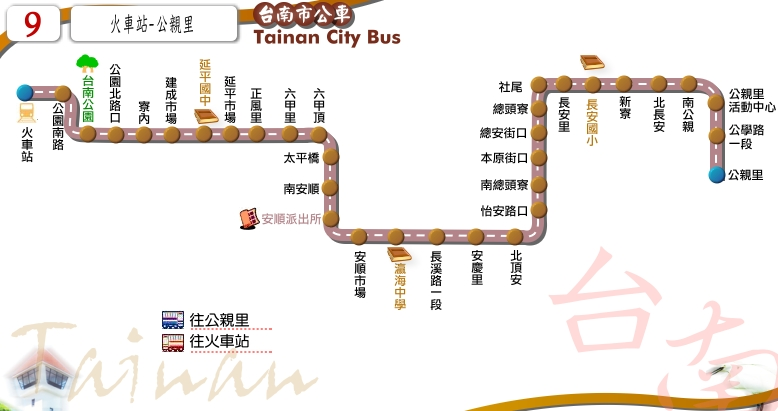
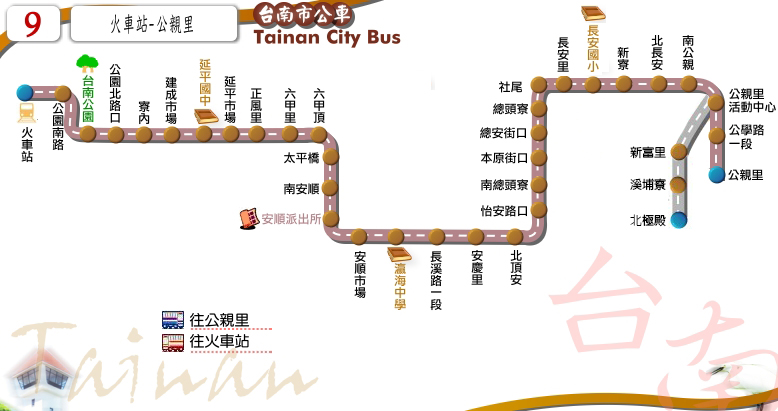
finished 9,g27,y12-1,y14,y15

diff --git a/city_bus/city_bus_9.html b/city_bus/city_bus_9.html
@@ -57,7 +57,7 @@
 			<table border="0">
 				<tr>
 					<td>起訖點</td>
-					<td>火車站 － 公親里</td>
+					<td>火車站 － 公親里/溪埔寮</td>
 				</tr>
 				<tr>
 					<td>營運公司</td>
@@ -65,7 +65,13 @@
 				</tr>
 				<tr>
 					<td>首／末班車發車時刻</td>
-					<td>往 公親里：07:00／18:00<br />往 火車站：06:20／18:50</td>
+					<td>
+					<script language="javascript">
+						document.write('往 公親里：'+city_bus_9_time_go[0][0]+'／'+city_bus_9_time_go[city_bus_9_time_go.length-1][0]);
+						document.write('<br />');
+						document.write('往 火車站：'+city_bus_9_time_return[0][0]+'／'+city_bus_9_time_return[city_bus_9_time_return.length-1][0]);
+					</script>
+					</td>
 				</tr>
 				<tr>
 					<td>班距</td>
@@ -122,10 +128,10 @@
 	</div>
 	<div class="content">
 		<script language="javascript">
-			document.write('<h2>火車站-&gt;公親里</h2>');
+			document.write('<h2>火車站-&gt;公親里/溪埔寮</h2>');
 			create_time_schedule(city_bus_9_main_stop_name, city_bus_9_main_stop_time_consume, city_bus_9_important_stop, city_bus_9_time_go, false);
 			document.write('<p>　</p>');
-			document.write('<h2>公親里-&gt;火車站</h2>');
+			document.write('<h2>公親里/溪埔寮-&gt;火車站</h2>');
 			create_time_schedule(city_bus_9_main_stop_name, city_bus_9_main_stop_time_consume, city_bus_9_important_stop, city_bus_9_time_return, true);
 			document.write('<p>　</p>');
 			document.write(TimeScheduleMSG);
@@ -148,27 +154,27 @@
 				</tr>
 				<tr>
 					<td style="text-align: center"><img src="../route/transfer/taiwantrip_logo.png"></td>
-					<td>88、99</td>
+					<td id="tour_bus"><a href="../tour_bus/tour_bus_88.html" target="_blank">88</a>、<a href="../tour_bus/tour_bus_99.html" target="_blank">99</a></td>
 				</tr>
 				<tr>
 					<td style="text-align: center"><img src="../route/transfer/city_bus_transfer_logo.png"></td>
-					<td>市區公車(除15、20路)</td>
+					<td id="city_bus"><p><a href="../city_bus/city_bus_0.html" target="_blank">0左/右</a>、<a href="../city_bus/city_bus_1.html" target="_blank">1</a>、<a href="../city_bus/city_bus_2.html" target="_blank">2</a>、<a href="../city_bus/city_bus_3.html" target="_blank">3</a>、<a href="../city_bus/city_bus_5.html" target="_blank">5</a>、<a href="../city_bus/city_bus_6.html" target="_blank">6</a>、<a href="../city_bus/city_bus_7.html" target="_blank">7</a>、<a href="../city_bus/city_bus_9.html" target="_blank">9</a>、</p><a href="../city_bus/city_bus_10.html" target="_blank">10</a>、<a href="../city_bus/city_bus_11.html" target="_blank">11</a>、<a href="../city_bus/city_bus_14.html" target="_blank">14</a>、<a href="../city_bus/city_bus_18.html" target="_blank">18</a>、<a href="../city_bus/city_bus_21.html" target="_blank">21</a></td>
 				</tr>
 				<tr>
 					<td style="text-align: center"><img src="../route/transfer/green_transfer_logo.png"></td>
-					<td>綠幹線</td>
+					<td id="green"><a href="../green/green.html" target="_blank">綠幹線</a></td>
 				</tr>
 				<tr>
 					<td style="text-align: center"><img src="../route/transfer/blue_transfer_logo.png"></td>
-					<td>藍幹線</td>
+					<td id="blue"><a href="../blue/blue.html" target="_blank">藍幹線</a></td>
 				</tr>
 				<tr>
 					<td style="text-align: center"><img src="../route/transfer/red_transfer_logo.png"></td>
-					<td>紅幹線、紅1、紅2、紅3、紅4</td>
+					<td id="red"><a href="../red/red.html" target="_blank">紅幹線</a>、<a href="../red/red_1.html" target="_blank">紅1</a>、<a href="../red/red_2.html" target="_blank">紅2</a>、<a href="../red/red_3.html" target="_blank">紅3</a>、<a href="../red/red_4.html" target="_blank">紅4</a></td>
 				</tr>
 				<tr>
 					<td style="text-align: center"><img src="../route/transfer/orange_transfer_logo.png"></td>
-					<td>橘3、橘12</td>
+					<td id="orange"><a href="../orange/orange_3.html" target="_blank">橘3</a>、<a href="../orange/orange_11.html" target="_blank">橘11</a>、<a href="../orange/orange_12.html" target="_blank">橘12</a></td>
 				</tr>
 			</table>
 		</div>

diff --git a/route/fare_and_time/green_27.js b/route/fare_and_time/green_27.js
@@ -1,30 +1,34 @@
-green_27_interval_name = ["玉井","三埔","北寮","玉山","北寮","北平里","南化","茄苳橋"];
+green_27_interval_name = ["玉井","三埔","北寮","玉山","下歸林","玉山","北寮","北平里","南化","茄苳橋"];
 green_27_interval_stop = [
 ["玉井站","玉田里","玉井國中","農會超商前"], // 玉井
 ["砂子田","山後","坑口","二埔","三埔","四埔"], // 三埔
 ["北寮街尾","北寮","頭份子"], // 北寮
-["下頭子","南平","玉山","茅埔","玉山","南平","下頭子"], // 玉山
+["下頭子","南平","玉山","茅埔","十二鄰莊"], // 玉山
+["羌黃坑"], // 下歸林
+["十二鄰莊","茅埔","玉山","南平","下頭子"], // 玉山
 ["頭份子","北寮","南寮"], // 北寮
 ["北平里","七苓","鏡面水庫","湘子埔"], // 北平里
 ["小崙尾","南化國中","南化公所"], // 南化
 ["界址","西廍","東埔派出所","大坪","北頭","金馬寮","茄苳橋"] // 茄苳橋
 ];
-green_27_stop_time_consume = [0,2,3,4,5,6,7,8,9,10,11,12,13,15,17,18,20,22,23,25,27,28,29,30,31,32,33,35,37,38,40,42,43,44,45,46,47];
+green_27_stop_time_consume = [0,2,3,4,5,6,7,8,9,10,11,12,13,15,17,18,20,21,25,29,30,32,33,35,37,38,39,40,41,42,43,45,47,48,50,52,53,54,55,56,57];
 green_27_fare = [
 [26],
 [26,26],
 [26,26,26],
 [36,26,26,26],
-[26,26,26,26,26],
-[31,26,26,26,26,26],
-[42,26,26,32,26,26,26],
-[57,40,34,47,34,26,26,26]
+[54,37,31,26,26],
+[36,26,26,26,26,26],
+[26,26,26,26,31,26,26],
+[31,26,26,26,39,26,26,26],
+[42,26,26,32,50,32,26,26,26],
+[57,40,34,47,65,47,34,26,26,26]
 ];
 // format = [time at the start stop] or
 // [time, other] or
 // [time, start_stop, end_stop, other]
-green_27_main_stop_name = ["玉井","北寮<br />街尾","茅埔","南寮","鏡面<br />水庫","南化<br />公所","茄苳橋"];
-green_27_main_stop_time_consume = [0, 11, 20, 13, 16, 20, 30];
-green_27_important_stop = [0, 2, 5, 6]; // 玉井, 茅埔, 南化公所, 甲仙
-green_27_time_go = [["6:15",['W羌',[3,20]]],["6:15",['H羌',2]],["10:10",[2]],["13:00",[2]],["15:40",[2]],["16:30",0,5,[2]],["16:40",[2]],["18:10",[2]]];
-green_27_time_return = [["7:10",[2]],["10:40",[2]],["13:30",[2]],["16:10",[2]],["16:50",5,0,['羌',[2,20]]],["17:10",[2]],["18:40",[2]]];
+green_27_main_stop_name = ["玉井","北寮<br />街尾","羌黃坑","南寮","鏡面<br />水庫","南化<br />公所","茄苳橋"];
+green_27_main_stop_time_consume = [0, 11, 25, 13, 16, 20, 30];
+green_27_important_stop = [0, 2, 5, 6]; // 玉井, 羌黃坑, 南化公所, 甲仙
+green_27_time_go = [["6:15",['W',[3,25]]],["6:15",['H',2]],["10:10",[2]],["13:00",[2]],["15:40",[2]],["16:30",0,5,[2]],["16:40",[2]],["18:10",[2]]];
+green_27_time_return = [["7:10",[2]],["10:40",[2]],["13:30",[2]],["16:10",[2]],["16:50",5,0,[[2,25]]],["17:10",[2]],["18:40",[2]]];

diff --git a/route/fare_and_time/city_bus_9.js b/route/fare_and_time/city_bus_9.js
@@ -1,8 +1,8 @@
 // format = [time at the start stop] or
 // [time, other] or
 // [time, start_stop, end_stop, other]
-city_bus_9_main_stop_name = ["臺南<br />火車站","臺南公園<br />(公園路)","延平<br />市場","太平橋","瀛海<br />中學","怡安<br />路口","總頭寮","新寮","公親里<br />活動中心","公親里"];
-city_bus_9_main_stop_time_consume = [0, 4, 8, 14, 17, 20, 23, 26, 28, 30];
+city_bus_9_main_stop_name = ["臺南<br />火車站","臺南公園<br />(公園路)","延平<br />市場","太平橋","瀛海<br />中學","怡安<br />路口","總頭寮","新寮","公親里<br />活動中心","公親里","北極殿"];
+city_bus_9_main_stop_time_consume = [0, 4, 8, 14, 17, 20, 23, 26, 28, 30, 35];
 city_bus_9_important_stop = [0, 4, 9]; // 臺南火車站, 瀛海中學, 公親里
-city_bus_9_time_go = [["07:00"],["08:40"],["11:30"],["14:30"],["16:30"],["18:00"]];
-city_bus_9_time_return = [["06:20"],["08:00"],["09:30"],["12:00"],["15:00"],["17:10"],["18:50"]];
+city_bus_9_time_go = [["07:00",0,9],["07:50",[9]],["08:40",0,9],["10:00",[9]],["11:30",0,9],["12:15",[9]],["14:30",0,9],["16:30",0,9],["17:20",[9]],["18:00",0,9]];
+city_bus_9_time_return = [["06:20",9,0],["06:30",[9]],["08:00",9,0],["08:40",[9]],["09:30",9,0],["10:50",[9]],["12:00",9,0],["15:00",9,0],["16:00",[9]],["17:10",9,0],["18:50",9,0]];

diff --git a/route/fare_and_time/yellow_14.js b/route/fare_and_time/yellow_14.js
@@ -30,5 +30,5 @@ yellow_14_fare = [
 yellow_14_main_stop_name = ["白河","三間厝","鹿寮水庫","三層崎"];
 yellow_14_main_stop_time_consume = [0, 5, 13, 20];
 yellow_14_important_stop = [0, 3]; // 白河, 三層崎
-yellow_14_time_go = [["07:50"],["10:20"],["11:50"],["17:40"]];
-yellow_14_time_return = [["06:15"],["08:20"],["10:50"],["12:20"]];
+yellow_14_time_go = [["06:40"],["07:50"],["10:20"],["17:40"]];
+yellow_14_time_return = [["06:10"],["07:05"],["08:20"],["10:50"]];

diff --git a/route/fare_and_time/yellow_12_1.js b/route/fare_and_time/yellow_12_1.js
@@ -16,5 +16,5 @@ yellow_12_1_fare = [
 yellow_12_1_main_stop_name = ["白河","河東國小","福顯宮"];
 yellow_12_1_main_stop_time_consume = [0, 5, 10];
 yellow_12_1_important_stop = [0, 2]; // 白河, 福顯宮
-yellow_12_1_time_go = [["6:20"],["10:40"],["17:30"]];
-yellow_12_1_time_return = [["6:30"],["10:50"],["17:40"]];
+yellow_12_1_time_go = [["06:20"],["10:20"],["17:40"]];
+yellow_12_1_time_return = [["06:30"],["10:30"],["17:50"]];

diff --git a/route/fare_and_time/yellow_15.js b/route/fare_and_time/yellow_15.js
@@ -24,5 +24,5 @@ yellow_15_fare = [
 yellow_15_main_stop_name = ["白河","玉豐","枋子林","詔安厝"];
 yellow_15_main_stop_time_consume = [0, 8, 11, 15];
 yellow_15_important_stop = [0, 3]; // 白河, 三層崎
-yellow_15_time_go = [["06:45"],["10:50"],["18:45"]];
-yellow_15_time_return = [["06:25"],["07:30"],["11:15"]];
+yellow_15_time_go = [["06:45"],["10:50"],["18:35"]];
+yellow_15_time_return = [["06:25"],["07:05"],["11:10"]];

diff --git a/green/green_27.html b/green/green_27.html
@@ -145,7 +145,6 @@ select.get_fare option.option6
 			document.write(TimeScheduleMSG);
 		</script>
 		<h3><font color="red">H</font>表示假日行駛</h3>
-		<h3><font color="red">「羌」</font>表示延駛羌黃坑</h3>
 	</div>
 </div>
 <div id="wrapper4">
